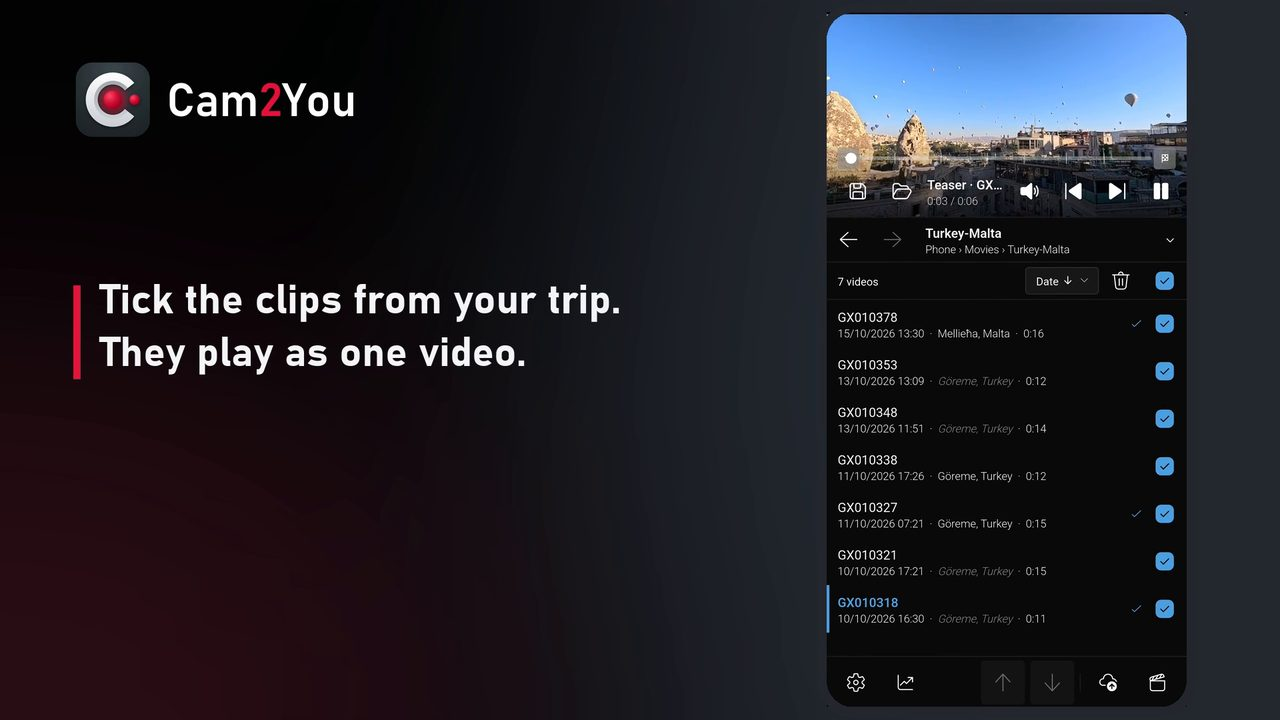
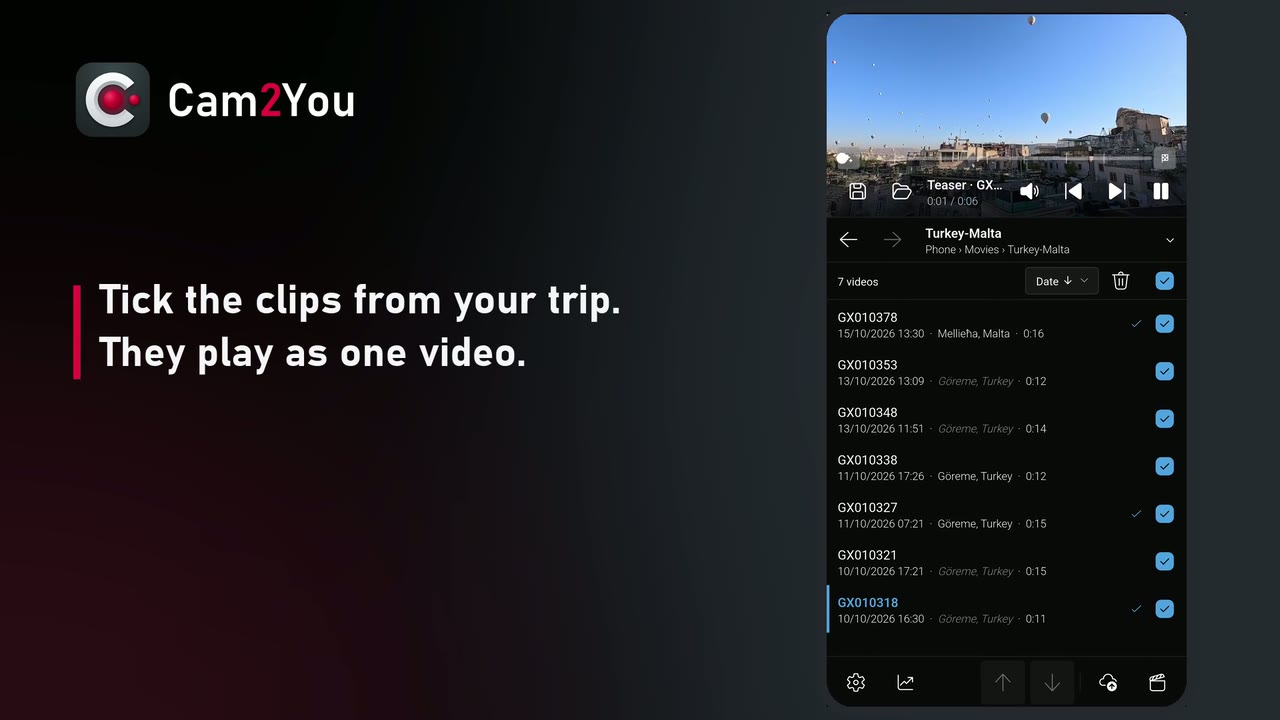
Cam2You: the new video (46 s, with trimming to the second) and its first frame

Changed region(s): [[0.625, 0.0, 0.9375, 0.3056], [0.625, 0.0, 0.75, 0.1222]]

diff --git a/cam2you/index.html b/cam2you/index.html
@@ -271,7 +271,7 @@
 </section>
 
 <h2>See it in action</h2>
-<a class="video" href="https://www.youtube.com/watch?v=wXGBg7ioy8w" target="_blank" rel="noopener" aria-label="Watch the Cam2You video on YouTube (40 seconds)">
+<a class="video" href="https://www.youtube.com/watch?v=EDdAtK97Mt0" target="_blank" rel="noopener" aria-label="Watch the Cam2You video on YouTube (46 seconds)">
   <img src="/cam2you/video.jpg" alt="Cam2You on a phone: seven clips from a trip to Turkey and Malta, ticked, playing as one video" width="1280" height="720" loading="lazy">
   <span class="play"></span>
 </a>
